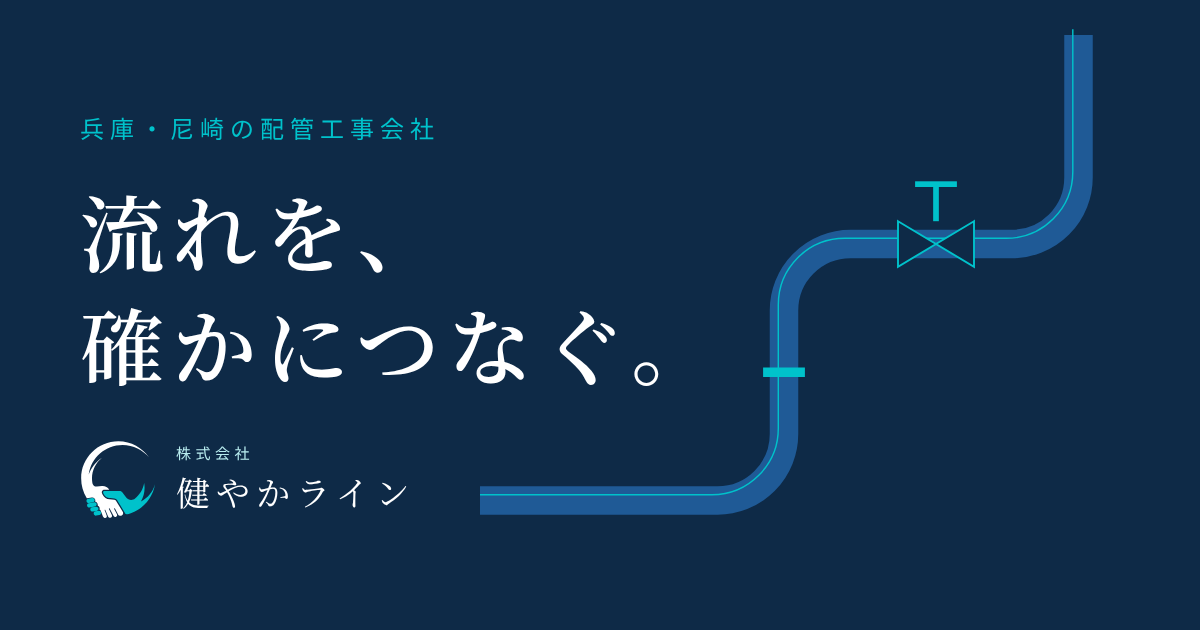
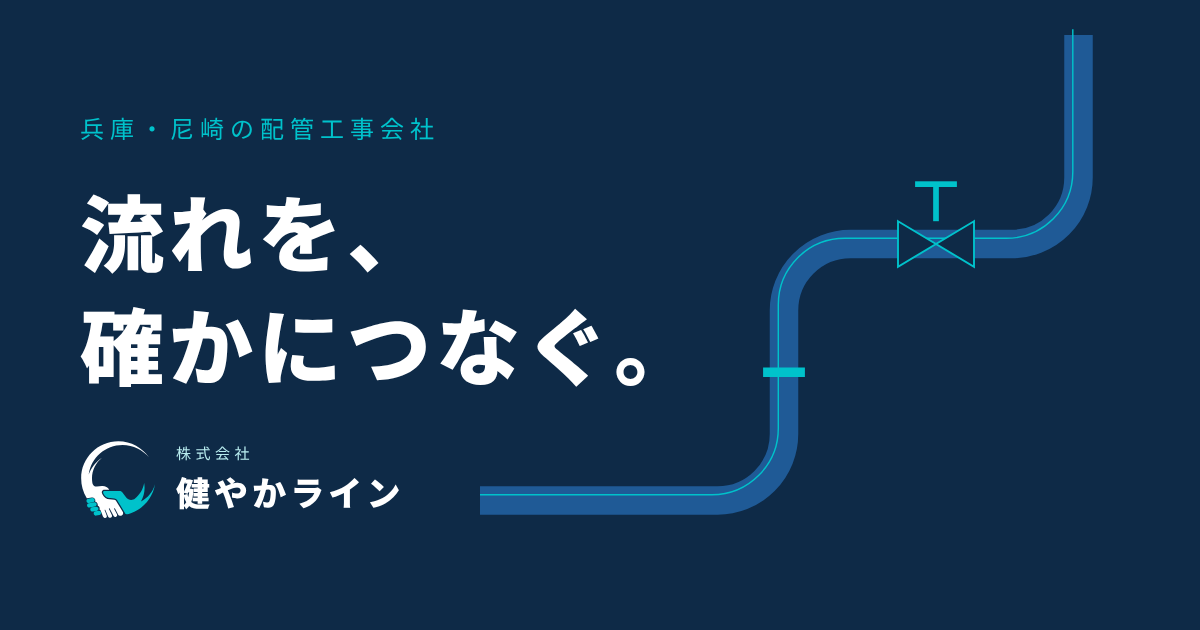
書体をNoto Sans JP（見出し極太）に変更
Claude-Session: https://claude.ai/code/session_014772Cy9PsiDJYMxhzPvmBR

Changed region(s): [[0.0617, 0.4825, 0.555, 0.6333], [0.0617, 0.3016, 0.3083, 0.4524], [0.1233, 0.754, 0.3392, 0.8143]]

diff --git a/src/app/recruit/page.tsx b/src/app/recruit/page.tsx
@@ -85,7 +85,7 @@ export default function RecruitPage() {
             {applySteps.map((s, i) => (
               <li key={s.title} className="relative md:pr-8">
                 <div className="flex items-center gap-4">
-                  <span className="flex h-11 w-11 shrink-0 items-center justify-center rounded-full bg-ink font-serif text-white">
+                  <span className="flex h-11 w-11 shrink-0 items-center justify-center rounded-full bg-ink font-display text-white">
                     {i + 1}
                   </span>
                   {i < applySteps.length - 1 && (
@@ -100,7 +100,7 @@ export default function RecruitPage() {
 
           <div className="mt-16 flex flex-col gap-6 bg-ink px-6 py-10 text-white md:flex-row md:items-center md:justify-between md:px-12">
             <div>
-              <p className="font-serif text-xl md:text-2xl">まずは気軽に、話を聞きに来てください。</p>
+              <p className="font-display text-xl md:text-2xl">まずは気軽に、話を聞きに来てください。</p>
               <p className="mt-2 text-[14px] text-white/75">履歴書は面談のときで構いません。</p>
             </div>
             <div className="flex flex-col gap-3 sm:flex-row">

diff --git a/src/app/voice/page.tsx b/src/app/voice/page.tsx
@@ -30,7 +30,7 @@ export default function VoicePage() {
                   } border-t-[3px] border-ai`}
                 >
                   <figcaption className="text-[14px]">
-                    <p className="font-serif text-lg">{v.who}</p>
+                    <p className="font-display text-lg">{v.who}</p>
                     <p className="mt-1 text-steel">{v.role}</p>
                     <p className="mt-4 inline-block bg-mist px-2 py-0.5 text-[13px]">{v.work}</p>
                     {v.sample && (
@@ -39,7 +39,7 @@ export default function VoicePage() {
                       </p>
                     )}
                   </figcaption>
-                  <blockquote className="font-serif text-[17px] leading-[2.2] tracking-[0.05em] md:text-lg">
+                  <blockquote className="font-display text-[17px] leading-[2.2] tracking-[0.05em] md:text-lg">
                     {v.body}
                   </blockquote>
                 </figure>

diff --git a/src/app/globals.css b/src/app/globals.css
@@ -10,6 +10,8 @@
  *  porcelain #F7FAFC  白磁：ページの地
  *  steel     #5B6B7A  鋼：補足の文字
  *  line      #D5E1EA  罫線
+ *
+ * 書体：Noto Sans JP。見出しは極太（800）、本文は通常（400）
  */
 @theme {
   --color-ink: #0e2a47;
@@ -24,7 +26,7 @@
   --color-steel: #5b6b7a;
   --color-line: #d4e2e8;
 
-  --font-serif: "Shippori Mincho B1", "Noto Serif JP", "Noto Serif CJK JP", "Hiragino Mincho ProN", serif;
+  --font-display: "Noto Sans JP", "Noto Sans CJK JP", "Hiragino Kaku Gothic ProN", "Meiryo", sans-serif;
   --font-sans: "Noto Sans JP", "Noto Sans CJK JP", "Hiragino Kaku Gothic ProN", "Meiryo", sans-serif;
 }
 
@@ -44,9 +46,9 @@
   h1,
   h2,
   h3 {
-    font-family: var(--font-serif);
-    font-weight: 600;
-    letter-spacing: 0.08em;
+    font-family: var(--font-display);
+    font-weight: 800;
+    letter-spacing: 0.06em;
     line-height: 1.5;
   }
   :focus-visible {

diff --git a/src/app/company/page.tsx b/src/app/company/page.tsx
@@ -75,7 +75,7 @@ export default function CompanyPage() {
             <SectionHeading title="代表挨拶" />
             <LogoFull className="mt-12 hidden h-auto w-44 md:block" />
           </div>
-          <div className="space-y-6 font-serif text-[16px] leading-[2.2] tracking-[0.06em] md:text-[17px]">
+          <div className="space-y-6 font-display text-[16px] leading-[2.2] tracking-[0.06em] md:text-[17px]">
             <p>
               配管は、工場や設備の中を流れる「血管」のようなものです。一本の配管がきちんと通っていることで、機械が動き、ものが生まれ、そこで働く人の毎日が守られています。
             </p>

diff --git a/src/app/contact/page.tsx b/src/app/contact/page.tsx
@@ -31,7 +31,7 @@ export default function ContactPage() {
           <aside className="space-y-8 lg:sticky lg:top-28 lg:self-start">
             <div className="bg-ink px-6 py-8 text-white">
               <p className="text-[13px] text-sky">お急ぎの方はお電話で</p>
-              <a href={telHref} className="mt-2 block font-serif text-[26px] tracking-[0.06em] hover:text-sky">
+              <a href={telHref} className="mt-2 block font-display text-[26px] tracking-[0.06em] hover:text-sky">
                 {site.company.tel}
               </a>
               <p className="mt-4 text-[13px] text-white/70">

diff --git a/src/app/page.tsx b/src/app/page.tsx
@@ -136,7 +136,7 @@ export default async function HomePage() {
           <Container className="grid gap-10 md:grid-cols-[1fr_2fr] md:gap-16">
             <SectionHeading title="お客様の声" />
             <figure>
-              <blockquote className="font-serif text-xl leading-[2] tracking-[0.06em] md:text-2xl md:leading-[2.1]">
+              <blockquote className="font-display text-xl leading-[2] tracking-[0.06em] md:text-2xl md:leading-[2.1]">
                 {voice.body}
               </blockquote>
               <figcaption className="mt-6 flex flex-wrap items-center gap-3 text-[13px] text-steel">

diff --git a/src/components/Logo.tsx b/src/components/Logo.tsx
@@ -21,7 +21,7 @@ export function Logo({ light = false, size = "md" }: Props) {
       <span className="flex flex-col leading-none">
         <span className={`text-[10px] tracking-[0.3em] ${light ? "text-sky-soft" : "text-steel"}`}>株式会社</span>
         <span
-          className={`mt-1 font-serif font-semibold tracking-[0.18em] ${size === "lg" ? "text-2xl" : "text-xl"} ${
+          className={`mt-1 font-display font-extrabold tracking-[0.12em] ${size === "lg" ? "text-2xl" : "text-xl"} ${
             light ? "text-white" : "text-ink"
           }`}
         >

diff --git a/src/app/instagram/page.tsx b/src/app/instagram/page.tsx
@@ -53,7 +53,7 @@ export default async function InstagramPage() {
 
       <section className="py-16 md:py-20">
         <Container className="flex flex-col items-start gap-6 md:flex-row md:items-center md:justify-between">
-          <p className="font-serif text-xl">投稿を見て、働いてみたいと思った方へ。</p>
+          <p className="font-display text-xl">投稿を見て、働いてみたいと思った方へ。</p>
           <ButtonLink href="/recruit/">採用情報を見る</ButtonLink>
         </Container>
       </section>

diff --git a/src/app/layout.tsx b/src/app/layout.tsx
@@ -75,7 +75,7 @@ export default function RootLayout({ children }: { children: ReactNode }) {
         <link rel="preconnect" href="https://fonts.gstatic.com" crossOrigin="anonymous" />
         <link
           rel="stylesheet"
-          href="https://fonts.googleapis.com/css2?family=Noto+Sans+JP:wght@400;500;700&family=Shippori+Mincho+B1:wght@500;600;700&display=swap"
+          href="https://fonts.googleapis.com/css2?family=Noto+Sans+JP:wght@400;500;700;800&display=swap"
         />
         <JsonLd data={organization} />
       </head>

diff --git a/src/components/CtaBand.tsx b/src/components/CtaBand.tsx
@@ -18,7 +18,7 @@ export function CtaBand() {
             className="flex min-h-14 flex-col items-center justify-center rounded-sm bg-white px-8 text-ink transition-colors hover:bg-sky-soft"
           >
             <span className="text-[11px] tracking-[0.2em] text-steel">お電話</span>
-            <span className="font-serif text-xl tracking-[0.08em]">{site.company.tel}</span>
+            <span className="font-display text-xl tracking-[0.08em]">{site.company.tel}</span>
           </a>
           <Link
             href="/contact/"

diff --git a/src/components/Header.tsx b/src/components/Header.tsx
@@ -99,7 +99,7 @@ export function Header() {
                 <Link
                   href={item.href}
                   aria-current={isActive(item.href) ? "page" : undefined}
-                  className="flex items-center justify-between py-4 font-serif text-lg tracking-[0.12em]"
+                  className="flex items-center justify-between py-4 font-display text-lg tracking-[0.12em]"
                 >
                   {item.label}
                   <span aria-hidden="true" className="h-px w-6 bg-sky" />

diff --git a/src/components/InstagramFeed.tsx b/src/components/InstagramFeed.tsx
@@ -84,7 +84,7 @@ export function InstagramFeed({ posts, limit = 9 }: Props) {
 
   return (
     <div className="border border-dashed border-line bg-white px-6 py-12 text-center">
-      <p className="font-serif text-lg">現場の様子をInstagramで発信しています</p>
+      <p className="font-display text-lg">現場の様子をInstagramで発信しています</p>
       <p className="mt-3 text-sm text-steel">
         施工中の様子や、職人たちの日常を投稿しています。
       </p>
